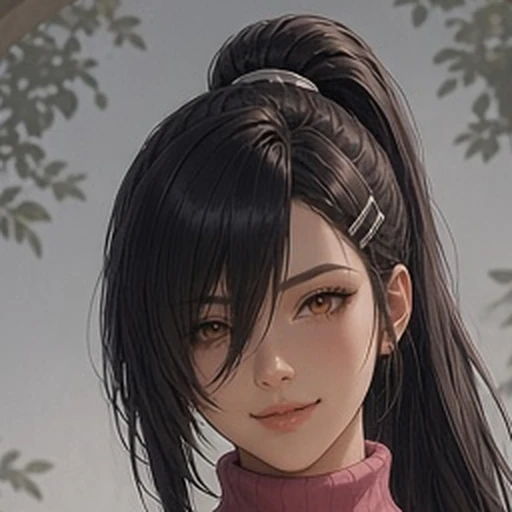
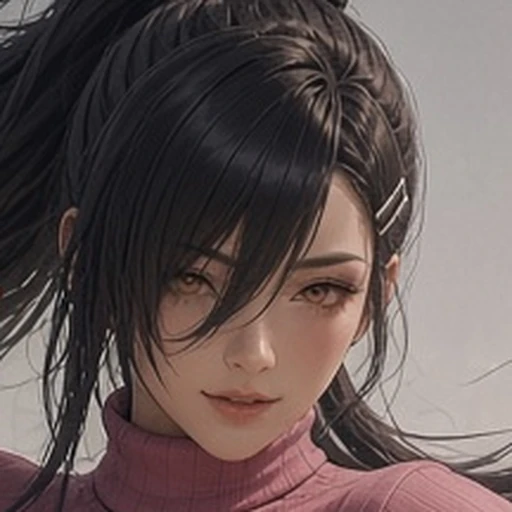
替换紫绫影姬立绘并同步自走棋头像

diff --git a/tools/hero-roster.test.js b/tools/hero-roster.test.js
@@ -59,10 +59,13 @@ const NEW_FOUR_HEROES = {
     skillName: '断影追魂',
     skillKind: 'single',
     mainMult: 1.85,
+    img: 'assets/hero_ziling_hd.jpg?v=2',
+    poster: 'assets/hero_ziling_poster.jpg?v=2',
+    avatar: 'assets/battle/avatars/ziling.webp?v=2',
     size: { width: 1008, height: 1792 },
[6 lines of base64/hex data omitted]
   },
   honglian: {
     name: '红莲妖姬',
@@ -374,6 +377,7 @@ Object.keys(NEW_FOUR_HEROES).forEach((hid) => {
   assert.ok(EXISTING_SKILL_KINDS.has(hero.skill.kind));
   assert.deepStrictEqual(currentConfig.HERO_SKILLS[hid], hero.skill);
   ['img', 'poster', 'avatar'].forEach((key) => {
+    if (exp[key]) assert.strictEqual(hero[key], exp[key]);
     const rel = stripQuery(hero[key]);
     assert.ok(fs.existsSync(path.join(root, rel)), rel);
     assert.ok(text('js/config.js').includes(path.basename(rel)), `部署引用缺失 ${rel}`);
@@ -602,7 +606,7 @@ assert.ok(css.includes('MaShanZheng-Role.woff2?v=11'));
 
 const index = text('index.html');
 assert.ok(index.includes('css/style.css?v=81'));
-assert.ok(index.includes('js/config.js?v=63'));
+assert.ok(index.includes('js/config.js?v=64'));
 assert.ok(index.includes('js/state.js?v=30'));
 assert.ok(index.includes('js/battle.js?v=33'));
 

diff --git a/js/config.js b/js/config.js
@@ -1083,11 +1083,11 @@
         name: '紫绫影姬',
         quality: 'di',
         unlockCond: '踏入仙途（初始免费解锁）',
-        avatar: 'assets/battle/avatars/ziling.webp?v=1',
+        avatar: 'assets/battle/avatars/ziling.webp?v=2',
         avatarPos: '51% 12%',
         avatarScale: 2.6,
-        img: 'assets/hero_ziling_hd.jpg?v=1',
-        poster: 'assets/hero_ziling_poster.jpg?v=1',
+        img: 'assets/hero_ziling_hd.jpg?v=2',
+        poster: 'assets/hero_ziling_poster.jpg?v=2',
         skill: {
           id: 'duanying_zhuihun',
           name: '断影追魂',

diff --git a/index.html b/index.html
@@ -575,7 +575,7 @@
   </div>
 
   <script src="js/no-zoom.js?v=22"></script>
-  <script src="js/config.js?v=63"></script>
+  <script src="js/config.js?v=64"></script>
   <script src="js/equip.js?v=22"></script>
   <script src="js/state.js?v=30"></script>
   <script src="js/titles.js?v=23"></script>
